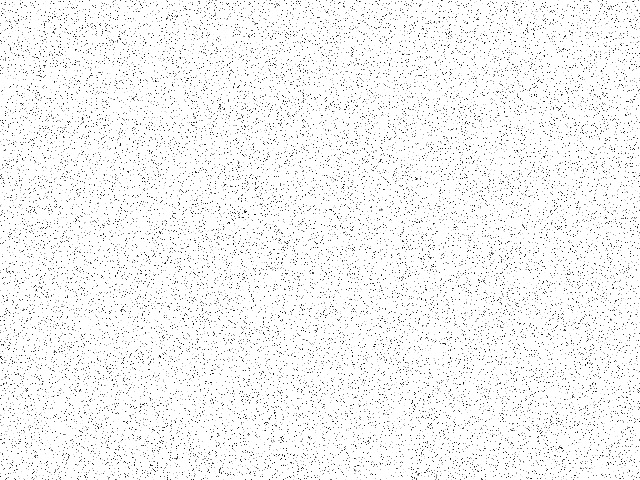
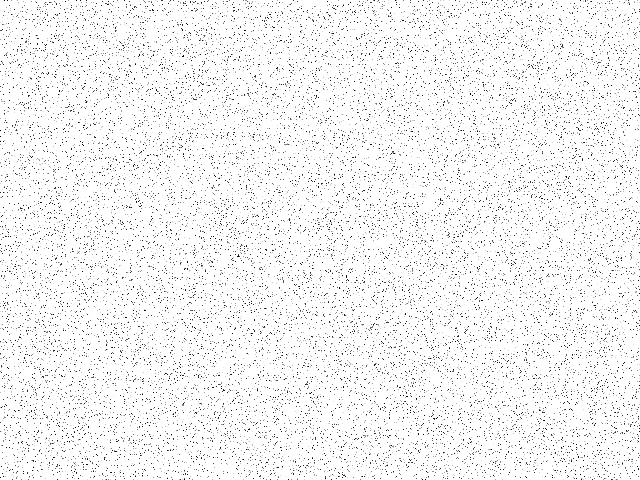
[DIP]: week9

Changed region(s): [[0.0, 0.0, 1.0, 1.0]]

diff --git a/Digital_Image_Processing/week9/submit/assignment.py b/Digital_Image_Processing/week9/submit/assignment.py
@@ -1,0 +1,32 @@
+import cv2
+import numpy as np
+import matplotlib.pyplot as plt
+
+img_original = cv2.imread('birds.jpg')
+img_hsv = cv2.cvtColor(img_original, cv2.COLOR_BGR2HSV)
+
+h, s ,v = cv2.split(img_hsv)
+
+v_tmp = np.clip(v.astype(np.float32) * 1.5, 0, 255).astype(np.uint8)
+
+img_result = cv2.merge([h, s, v_tmp])
+img_result = cv2.cvtColor(img_result, cv2.COLOR_HSV2BGR)
+
+cv2.imwrite('img_modified.jpg', img_result)
+
+fig, axes = plt.subplots(1, 2, figsize=(10, 5))
+
+axes[0].imshow(cv2.cvtColor(img_original, cv2.COLOR_BGR2RGB))
+axes[0].set_title('Original')
+axes[0].axis('off')
+
+axes[1].imshow(cv2.cvtColor(img_result, cv2.COLOR_BGR2RGB))
+axes[1].set_title('Modified (V channel x 1.5)')
+axes[1].axis('off')
+
+plt.tight_layout()
+plt.savefig('comparison_result.jpg')
+
+# V 값을 1.5배하여 원본이미지와 대조해 보았을 때
+# 이미지 고유의 색상과 선명도는 변하지 않은 채 전체적인 밝기가 높아진 것을 확인하였다.
+# 따라서 색상의 왜곡 없이 밝기만을 제어하는 상황에서는 HSV 모델이 효과적임을 알 수 있다.

diff --git a/Digital_Image_Processing/week9/code/color.py b/Digital_Image_Processing/week9/code/color.py
@@ -1,0 +1,26 @@
+import cv2
+import matplotlib.pyplot as plt
+import numpy as np
+
+
+img_bgr = cv2.imread('../img/birds.jpg')
+img_rgb = cv2.cvtColor(img_bgr, cv2.COLOR_BGR2RGB)
+
+R, G, B = cv2.split(img_rgb)
+
+zeros = np.zeros_like(R)
+img_R = cv2.merge([R, zeros, zeros])
+img_G = cv2.merge([zeros, G, zeros])
+img_B = cv2.merge([zeros, zeros, B])
+
+fig, axes = plt.subplots(1, 4, figsize=(16, 5))
+axes[0].imshow(img_rgb); axes[0].set_title('Original'); axes[0].axis('off')
+axes[1].imshow(img_R); axes[0].set_title('R'); axes[1].axis('off')
+axes[2].imshow(img_G); axes[0].set_title('G'); axes[2].axis('off')
+axes[3].imshow(img_B); axes[0].set_title('B'); axes[3].axis('off')
+plt.tight_layout
+plt.show()
+
+cv2.imwrite('../img/channel_R.jpg', cv2.cvtColor(img_R, cv2.COLOR_RGB2BGR))
+cv2.imwrite('../img/channel_G.jpg', cv2.cvtColor(img_G, cv2.COLOR_RGB2BGR))
+cv2.imwrite('../img/channel_B.jpg', cv2.cvtColor(img_B, cv2.COLOR_RGB2BGR))
